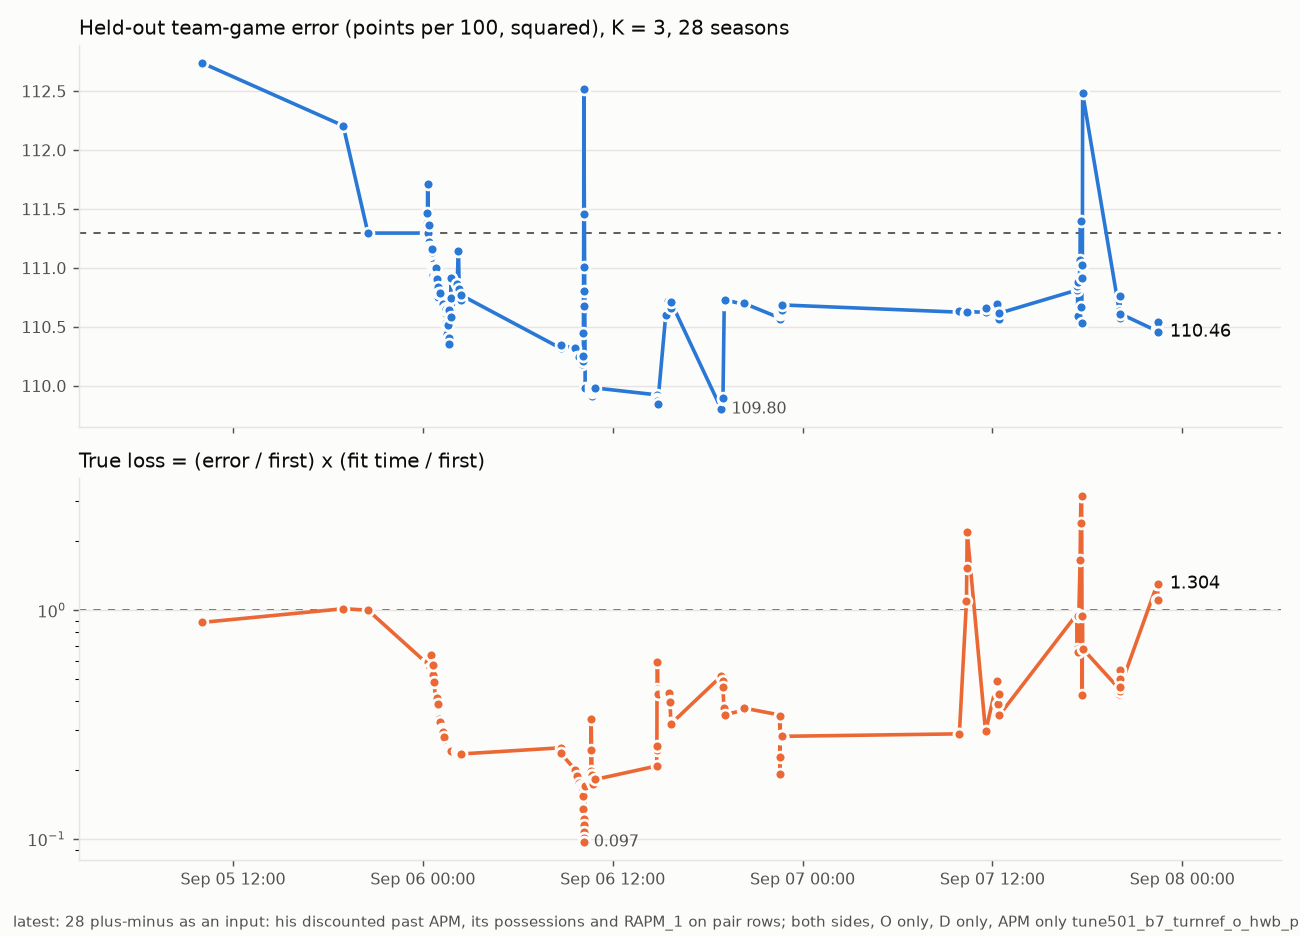
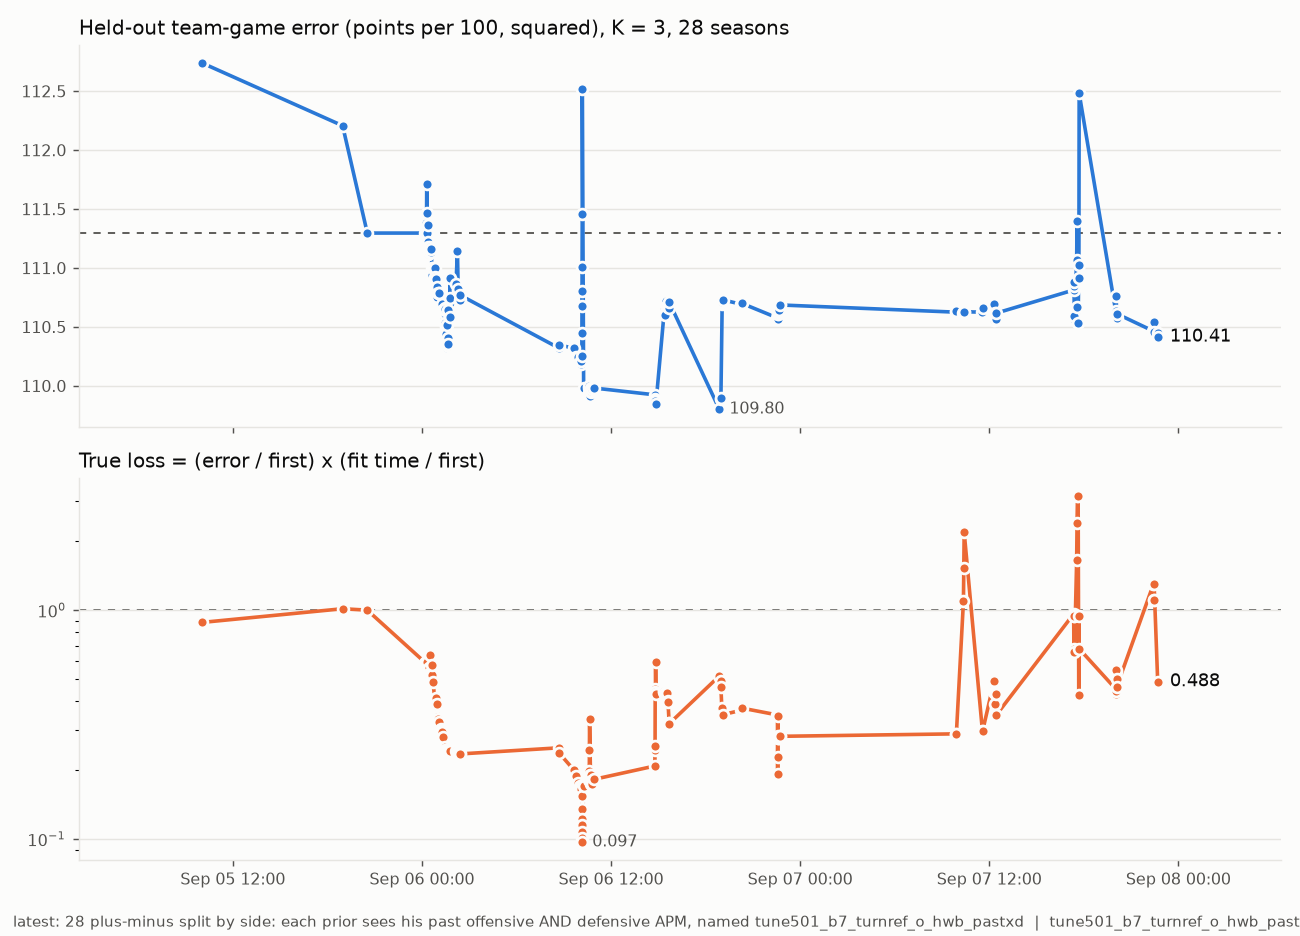
Plus-minus split by side: each prior can see his past offensive AND defensive record; the cross-side form is the owner's call
The owner: "we need to split up o/d plus minus per 100."  They are by construction -- the
panel's APM is per side, per 100, raw sign, own possessions, the two sides correlating -0.06
-- so the shipped past_apm is past OFFENSIVE APM only.  gbdt_prior.PAST_CROSS names both
sides for either prior (past_apm_o, past_poss_o, past_apm_d, past_poss_d; past_all).  Test.

Both priors seeing both sides (hwb_pastxd) against the shipped offense-only board: -0.064 on
the criterion (z -1.84, 19/28), -0.150 on the investigator (z -4.28, 22/28); the offensive
prior alone seeing both is not separable from own-side.  On the board it misses the defensive
agreement floor by 0.002 (0.748), the same trade as 21.26 / 22.7 / 25.  Not shipped: not
significant on the criterion against the shipped board, and a second re-base of the defensive
floor for a z -1.8 candidate is the owner's call.  FINDINGS 28.7 has the steps.  The shipped
board is unchanged.  125 passed, 1 xfailed.

diff --git a/src/eracoef/gbdt_prior.py b/src/eracoef/gbdt_prior.py
@@ -255,15 +255,18 @@ BIO_BINS = {"height2": ("height", 2.0), "weight15": ("weight", 15.0)}
 # the past windows, so these are only allowed on PAIR rows (pair_rows), where the pair's target window is
 # excluded from the past as well as the exclusion set; at prediction time the past is every panel window
 # before the block, the block's own windows excluded (past_inputs).  A player with no past reads 0 / 0 / 0.
-PAST = ["past_apm", "past_poss", "past_rapm"]
+PAST_OWN = ["past_apm", "past_poss", "past_rapm"]                 # his record on THIS prior's side
+PAST_CROSS = ["past_apm_o", "past_poss_o", "past_apm_d", "past_poss_d"]   # both sides, named, for either prior
+PAST = [*PAST_OWN, *PAST_CROSS]
 PAST_DECAY = 0.5
 
 
-def past_features(p: pd.DataFrame, wins: list, keys: pd.DataFrame, exclude=(), decay: float = PAST_DECAY) -> pd.DataFrame:
+def past_features(p: pd.DataFrame, wins: list, keys: pd.DataFrame, exclude=(), decay: float = PAST_DECAY,
+                  suffix: str = "") -> pd.DataFrame:
     """PAST for each row of `keys` (player_id, window[, window_to]) from one side's panel rows `p` (player_id,
     window, poss, apm, rapm1): the windows before `window` in the order `wins`, not in `exclude`, not
     `window_to`, discounted by decay ** distance.  `window` may be a label beyond the panel (the block) given as
-    an index in `wins` via a `_wi` column instead."""
+    an index in `wins` via a `_wi` column instead.  `suffix` names the columns for a side ("_o" / "_d")."""
     idx = {lab: i for i, lab in enumerate(wins)}
     q = p[~p.window.isin(set(exclude))][["player_id", "window", "poss", "apm", "rapm1"]].copy()
     q["wi"] = q.window.map(idx).astype(float)
@@ -281,7 +284,15 @@ def past_features(p: pd.DataFrame, wins: list, keys: pd.DataFrame, exclude=(), d
     sr = np.bincount(m._i.to_numpy(), weights=wt * m.rapm1.to_numpy(dtype=float), minlength=n)
     ok = s > 0
     a, r = np.where(ok, sa / np.where(ok, s, 1.0), 0.0), np.where(ok, sr / np.where(ok, s, 1.0), 0.0)
-    return pd.DataFrame({"past_apm": a, "past_poss": s / 1000.0, "past_rapm": r}, index=keys.index)
+    return pd.DataFrame({f"past_apm{suffix}": a, f"past_poss{suffix}": s / 1000.0, f"past_rapm{suffix}": r}, index=keys.index)
+
+
+def past_all(panel: pd.DataFrame, side: str, wins: list, keys: pd.DataFrame, exclude=(), decay: float = PAST_DECAY) -> pd.DataFrame:
+    """Every PAST column for one prior's side: his own side's record unsuffixed, and both sides named."""
+    own = past_features(panel[panel.side == side], wins, keys, exclude=exclude, decay=decay)
+    o = past_features(panel[panel.side == "O"], wins, keys, exclude=exclude, decay=decay, suffix="_o")
+    d = past_features(panel[panel.side == "D"], wins, keys, exclude=exclude, decay=decay, suffix="_d")
+    return pd.concat([own, o[["past_apm_o", "past_poss_o"]], d[["past_apm_d", "past_poss_d"]]], axis=1)
 
 
 def past_inputs(panel: pd.DataFrame, side: str, exclude, player_ids, decay: float = PAST_DECAY) -> pd.DataFrame:
@@ -291,7 +302,7 @@ def past_inputs(panel: pd.DataFrame, side: str, exclude, player_ids, decay: floa
     ex = set(exclude)
     first = min((i for i, w in enumerate(wins) if w in ex), default=len(wins))
     keys = pd.DataFrame({"player_id": np.asarray(player_ids), "_wi": float(first)})
-    return past_features(panel[panel.side == side], wins, keys, exclude=ex, decay=decay)
+    return past_all(panel, side, wins, keys, exclude=ex, decay=decay)
 
 
 def _wants_derived(feats) -> bool:
@@ -401,7 +412,7 @@ def pair_rows(panel: pd.DataFrame, side: str, exclude=(), features=None, target_
     out = out[out.weight > 0].drop(columns="_poss_to").reset_index(drop=True)
     if past:
         # his record before w, the pair's target window w' left out of it as well as the exclusion set
-        pf = past_features(panel[panel.side == side], wins, out[["player_id", "window", "window_to"]], exclude=ex)
+        pf = past_all(panel, side, wins, out[["player_id", "window", "window_to"]], exclude=ex)
         for f in past:
             out[f] = pf[f].to_numpy()
     return out

diff --git a/tests/test_past.py b/tests/test_past.py
@@ -3,7 +3,7 @@ import numpy as np
 import pandas as pd
 import pytest
 
-from eracoef.gbdt_prior import PAST, PAST_DECAY, pair_rows, past_features, past_inputs, training_rows
+from eracoef.gbdt_prior import PAST, PAST_DECAY, PAST_OWN, pair_rows, past_features, past_inputs, training_rows
 
 WINS = ["2000-2002", "2003-2005", "2006-2008", "2009-2011"]
 
@@ -25,7 +25,7 @@ def test_past_features_discount_exclude_and_zero_without_a_past():
     p = _panel()
     keys = pd.DataFrame({"player_id": [1, 1, 1, 2, 2], "window": [WINS[0], WINS[2], WINS[3], WINS[2], WINS[3]]})
     f = past_features(p[p.side == "O"], WINS, keys)
-    assert list(f.columns) == PAST
+    assert list(f.columns) == PAST_OWN
     assert f.past_apm[0] == 0 and f.past_poss[0] == 0                           # nothing before the first window
     d = PAST_DECAY
     w0, w1 = 1000 * d ** 2, 2000 * d                                             # window 2: windows 0 and 1 before it
@@ -62,3 +62,16 @@ def test_past_inputs_use_only_the_windows_before_the_block():
     assert f.past_apm[2] == 0 and len(f) == 3                                    # never seen at all
     g = past_inputs(p, "D", set(), [1])                                          # nothing excluded: everything is past
     assert g.past_poss[0] > f.past_poss[0]
+
+
+def test_cross_side_past_is_the_other_side_record():
+    from eracoef.gbdt_prior import past_all
+    p = _panel()
+    p.loc[p.side == "D", "apm"] = -3.0                                          # defense reads -3 everywhere
+    keys = pd.DataFrame({"player_id": [1], "window": [WINS[3]]})
+    f = past_all(p, "O", WINS, keys)
+    assert set(PAST) <= set(f.columns)
+    assert abs(f.past_apm[0] - f.past_apm_o[0]) < 1e-12 and abs(f.past_apm_d[0] + 3.0) < 1e-9
+    assert abs(f.past_poss_o[0] - f.past_poss_d[0]) < 1e-12                     # the same windows behind both
+    g = past_all(p, "D", WINS, keys)
+    assert abs(g.past_apm[0] + 3.0) < 1e-9 and abs(g.past_apm_o[0] - f.past_apm_o[0]) < 1e-12

diff --git a/src/eracoef/systems.py b/src/eracoef/systems.py
@@ -403,6 +403,14 @@ def registry(cfg, rankmap=None, calmap=None) -> dict:
         # APM alone (no shrunk twin), and the pair-row control with no PAST at all on defense (offense already pairs)
         S["tune501_b7_turnref_o_hwb_pasta"] = _replace(S["tune501_b7_turnref_o"], name="tune501_b7_turnref_o_hwb_pasta",
                                                        gbdt_features={"O": [*_SF2, *_HW, "past_apm", "past_poss"], "D": [*_FF2, *_SQ2, *_HW, "past_apm", "past_poss"]})
+        # the owner, 2026-09-07: "we need to split up o/d plus minus per 100" -- they are (the panel's APM is per
+        # side); this gives each prior the OTHER side's record too, named: the offensive prior sees his past
+        # defensive APM beside his past offensive one, and the defensive prior (pooled as shipped) the reverse
+        _PX = ["past_apm_o", "past_poss_o", "past_apm_d", "past_poss_d"]
+        S["tune501_b7_turnref_o_hwb_pastx"] = _replace(S["tune501_b7_turnref_o"], name="tune501_b7_turnref_o_hwb_pastx",
+                                                       gbdt_features={"O": [*_SF2, *_HW, "past_rapm", *_PX], "D": [*_FF2, *_SQ2, *_HW]})
+        S["tune501_b7_turnref_o_hwb_pastxd"] = _replace(S["tune501_b7_turnref_o"], name="tune501_b7_turnref_o_hwb_pastxd",
+                                                        gbdt_features={"O": [*_SF2, *_HW, "past_rapm", *_PX], "D": [*_FF2, *_SQ2, *_HW, *_PX]})
         # the other bound: the defensive prior ALONE (the factor ridges at 1e6 leave no residual at all), so the
         # value of a defensive residual at team-game level is a number
         S["tune501_b7_turnref_o_dprior"] = _replace(S["tune501_b7_turnref_o"], name="tune501_b7_turnref_o_dprior",

diff --git a/FINDINGS.md b/FINDINGS.md
@@ -3712,3 +3712,28 @@ defensive floor by 0.005.  `docs/data/ratings.json` rebuilt.
 
 PAST on defense alone; the shrunk twin `past_rapm` as a fourth column beside APM and its possessions; PAST
 on pooled rows (it raises).
+
+### 7. The owner's follow-up: "we need to split up o/d plus-minus per 100" -- they are, and each prior can now see both
+
+The panel's APM is per side (one row per side, raw sign, per 100, each with its own possessions; the two
+sides correlate -0.06 across player-windows), so `past_apm` on the offensive prior was his past OFFENSIVE APM
+and nothing else.  What each prior did not see was the OTHER side's record.  `PAST_CROSS` names both:
+`past_apm_o`, `past_poss_o`, `past_apm_d`, `past_poss_d`, for either prior (`past_all`).  Against the shipped
+offense-only board, paired over the 28 seasons:
+
+| system | what | criterion vs `pasto` | z | wins | investigator vs `pasto` | z | wins | consensus (screen) |
+|---|---|---|---|---|---|---|---|---|
+| `..._hwb_pastx` | the offensive prior sees both sides | -0.029 | -1.69 | 19/28 | -0.039 | -1.62 | 17/28 | 0.819 / 0.817 / 0.759 |
+| **`..._hwb_pastxd`** | **both priors see both sides** | **-0.064** | **-1.84** | 19/28 | **-0.150** | **-4.28** | 22/28 | 0.808 / 0.815 / 0.748 |
+| `..._hwb_pasta` | each prior its own side | -0.022 | -0.47 | 17/28 | -0.092 | -2.02 | 17/28 | 0.799 / 0.806 / 0.745 |
+
+The defensive prior gains from the cross-side record where its own side alone did nothing (28.3): both priors
+seeing both sides is -0.15 on the investigator at z -4.3 and -0.064 on the criterion at z -1.8, i.e. -0.149 /
+-0.355 against the board before any plus-minus.  On the board it reads consensus 0.797 offense / **0.748
+defense** -- the defensive agreement floor missed by 0.002, the 21.26 / 22.7 / 25 trade once more: what the
+held-out data wants on defense, the consensus's defensive blend resists.  **Not shipped on this evidence: it is
+not significant on the criterion against the shipped board, and re-basing the defensive floor a second time
+for a z -1.8 candidate is the owner's call, not the record's.**  To take it: `gbdt.features_full_O` and `_D`
++= `past_apm_o, past_poss_o, past_apm_d, past_poss_d` (the offensive list keeps `past_rapm`), the
+`hwb_pastxd` tracker table to `calmap_ship.parquet`, `08_ratings.py`, and the defensive floor 0.75 -> 0.74 with
+the reason.  Fit time 66 s with the vectorised build (the shipped board's is 65 s).

diff --git a/HANDOFF.md b/HANDOFF.md
@@ -596,6 +596,10 @@ cousin of it.
 
 Built and shipped (above).  Measured and not taken: PAST on defense (-0.02 / -0.06, neither significant),
 the both-sides form (not separable from offense-only, slower, and it misses the defensive floor by 0.005).
+**The owner's follow-up (28.7): the sides are split by construction, and each prior can now see BOTH sides'
+record (`PAST_CROSS`).  Both priors seeing both sides (`tune501_b7_turnref_o_hwb_pastxd`) is -0.15 on the
+investigator at z -4.3 and -0.064 on the criterion at z -1.8 against the shipped board, and misses the
+defensive agreement floor by 0.002 (0.748).  The owner's call; the steps are in 28.7.**
 **What is left of the gap is the top**: the offensive miss by rating decile is +0.64 in the top decile against
 +0.70 before, and Curry, LeBron, Jokic lead the under-rated list as before.  28.1 names the two mechanisms --
 the prior's target is the player's OTHER windows, so a peak's prior is its neighbours' average, and the ridge
@@ -662,6 +666,7 @@ turnover/tenure machinery is the safe form of that and tenure was not wanted off
   domain on: four GitHub `A` records + a `www` CNAME at Porkbun FIRST, then re-add `docs/CNAME` on `main`,
   wait for the cert, then `gh api -X PUT repos/bbstats/openrapm/pages -F https_enforced=true`.
 * Never re-run, from 28: PAST on defense alone; `past_rapm` beside APM and its possessions; PAST on pooled rows;
+  the offensive prior alone seeing both sides' past (`pastx`, not separable from own-side);
   the map's prior terms (`prior`, `prior2`, `priorsat`) on defense scored on the investigator (unchanged to
   the third decimal).
 * Never re-run, from 26: fine (unbinned) height and weight in the prior on either side; tenure and n_teams as
